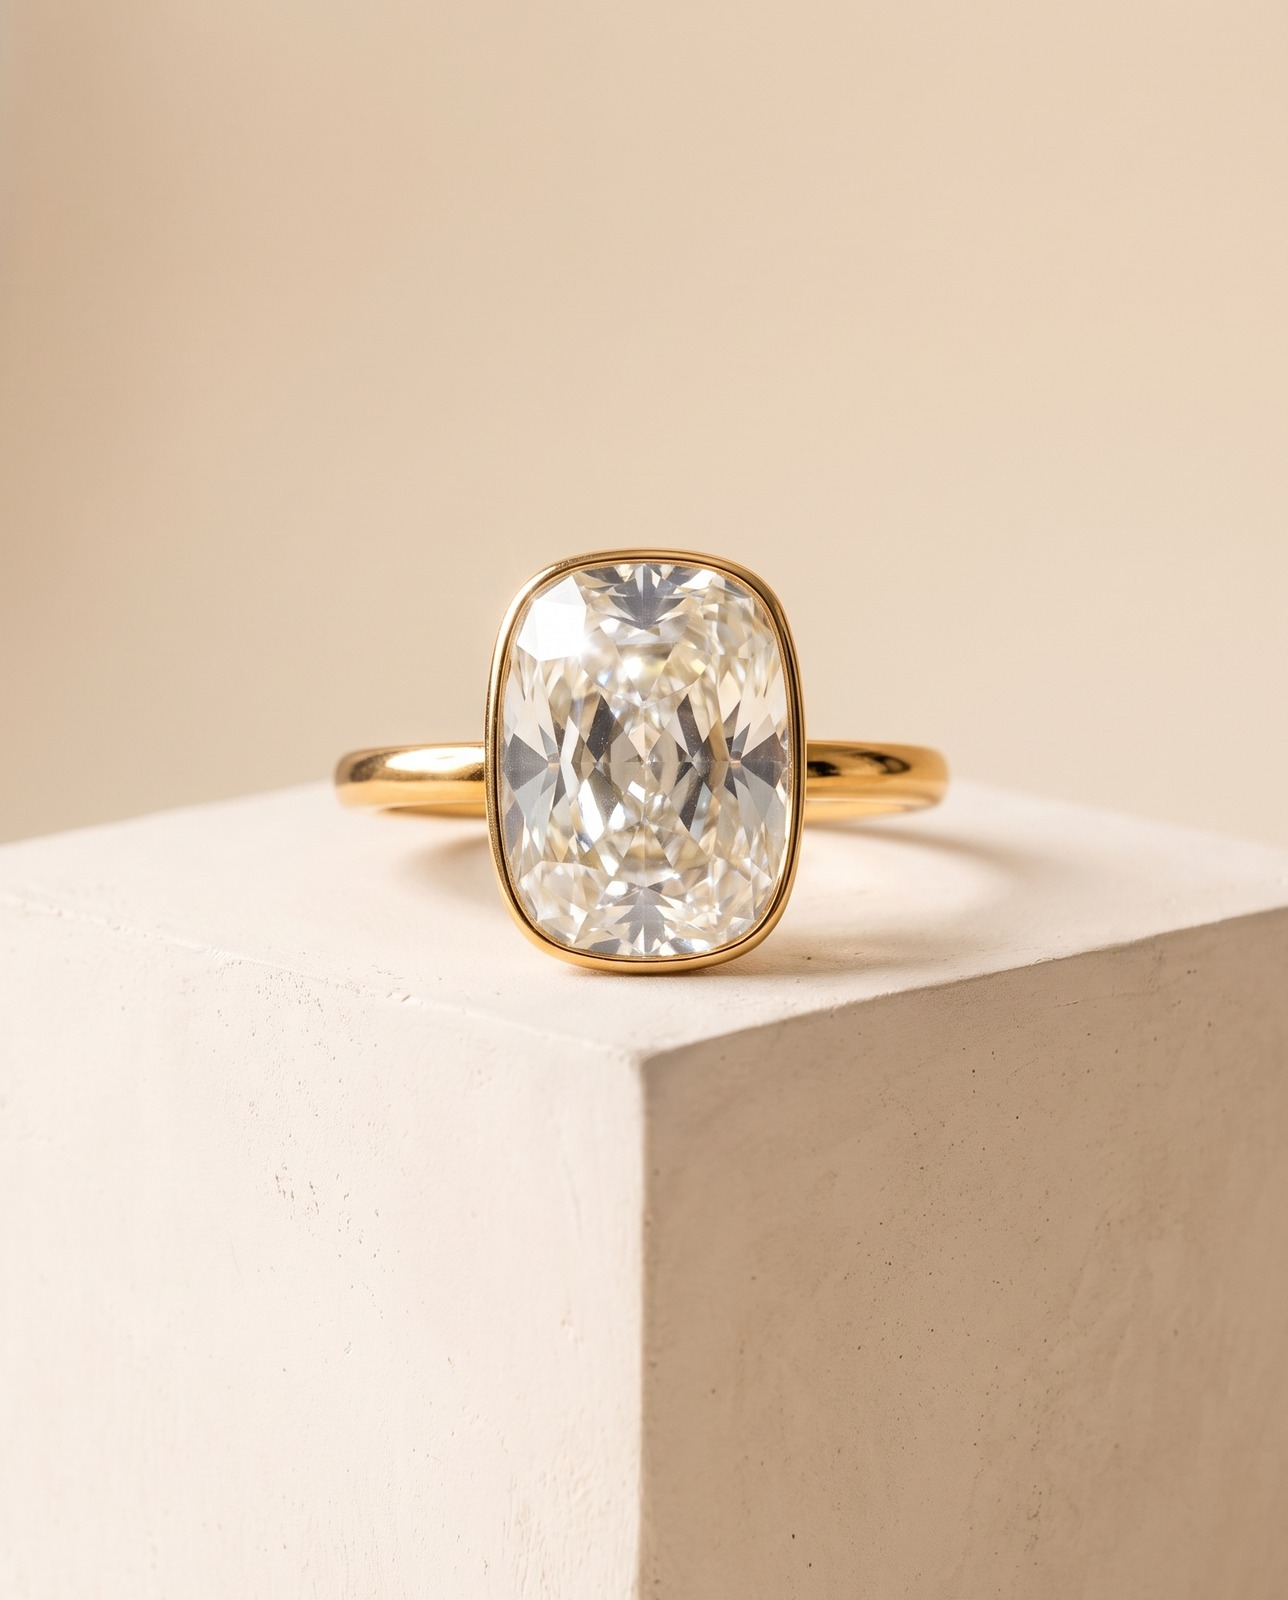
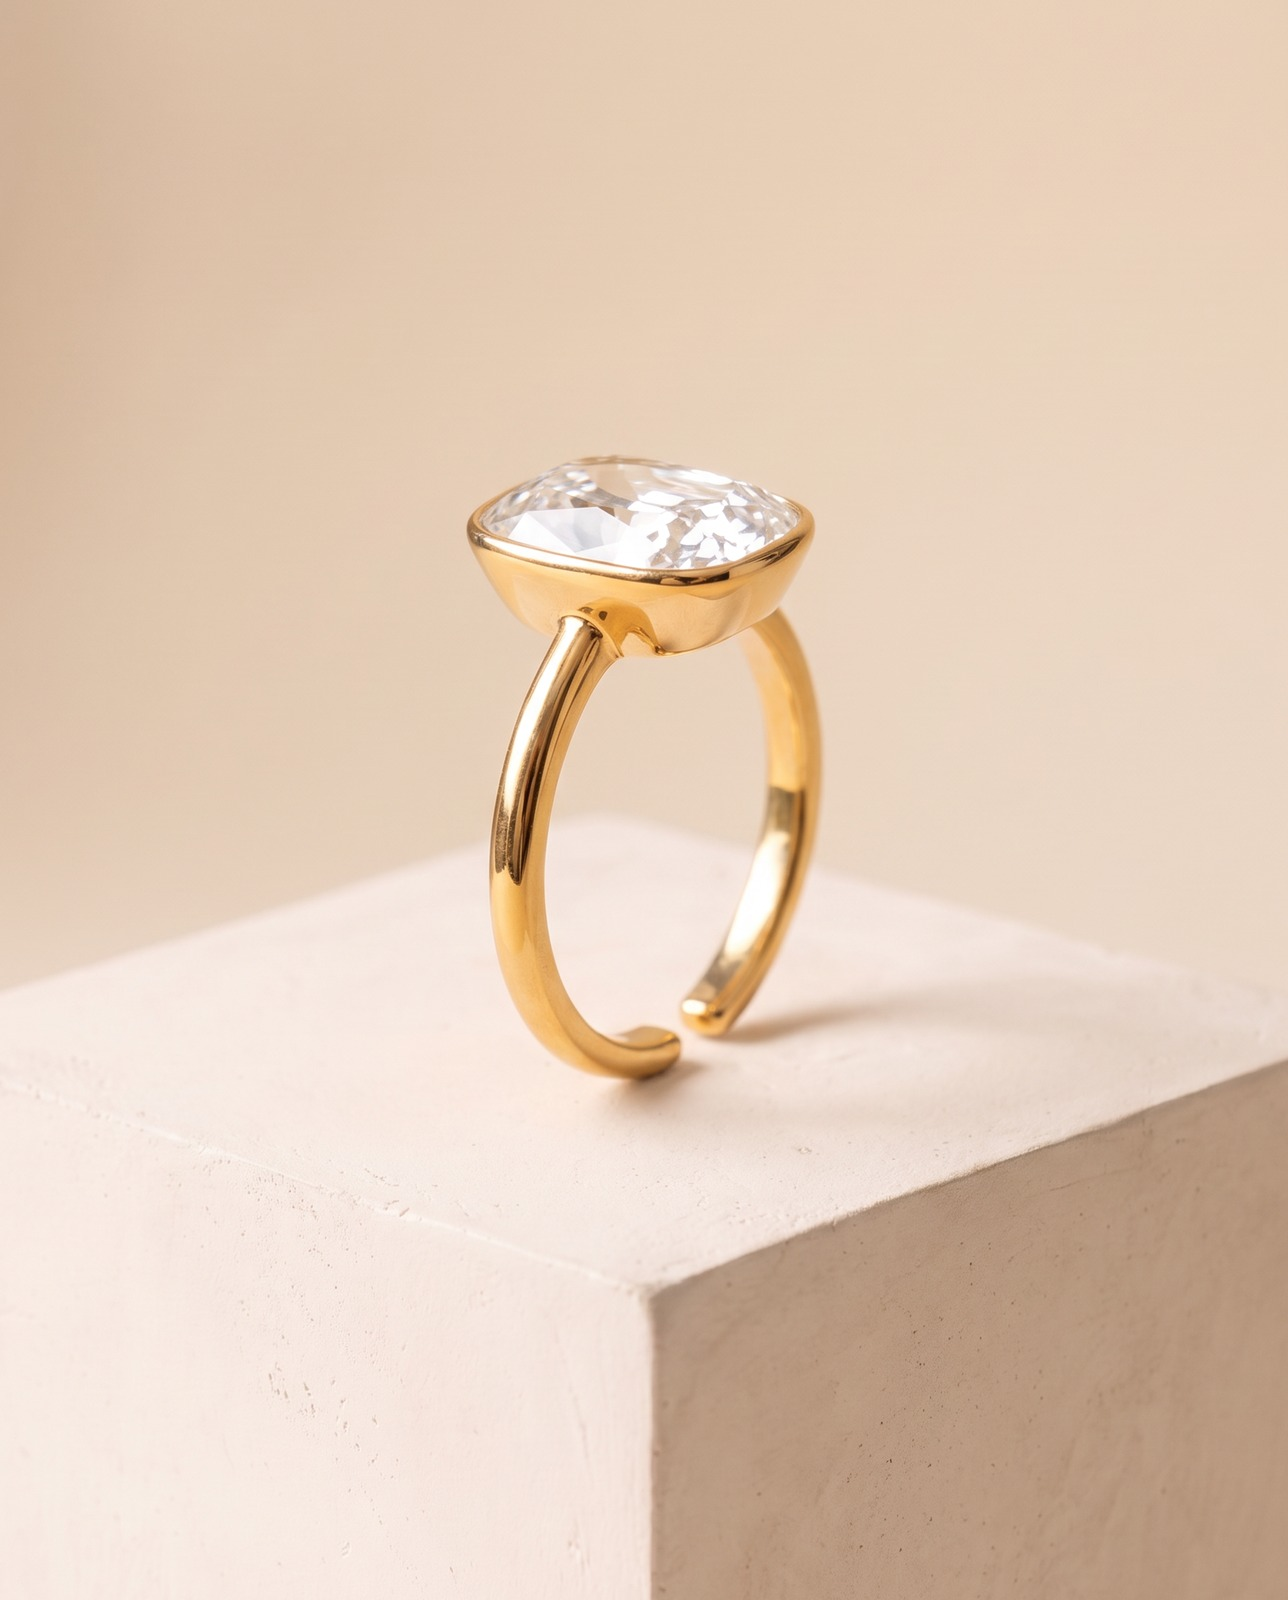
Cushion Solitaire: open-back hero, stone along the finger, 14 x 9 mm, 10 in stock
The owner's photo of the piece (#14, adjustable) measured against the
band and the finger puts the stone at about 14 x 9 mm, not 12 x 8.

- J13_Ho1: an upright hero, open at the back, in the Asscher hero's pose.
- J13_W1o1: the worn frame with the cushion running along the finger at
  its true size; J13_W1 had it near square and turned across.
- Copy, payload, listing record and size-guide card say 14 x 9 mm.
- Stock 5 -> 10 (received). Photos and card replaced in place on
  Shopify; the CDN copies match and the storefront API reads them back.

Claude-Session: https://claude.ai/code/session_015dHqE92KQXn2h19sPkpsQR

Changed region(s): [[0.0, 0.2812, 1.0, 1.0]]

diff --git a/docs/creative/aditya-jewellery/build/export.py b/docs/creative/aditya-jewellery/build/export.py
@@ -11,11 +11,13 @@
 # 26 Oct, the owner: an adjustable ring's photo that shows the back of the band shows it open. openback.py patches the gap
 # into the approved takes: J12_Ho (Asscher hero), J14_Ho and J14_Mo (Pavé Zigzag hero and macro). The Lumière hero was
 # front-on, its back hidden behind the stone, so J15_Ho1 is a new take: the same ring upright in J12_Ho's pose, open at the back.
+# Cushion Solitaire, 26 Oct (the owner's photo, IMG_7075): J13_Ho1 is an upright hero open at the back, and J13_W1o1 the worn
+# frame with the stone running along the finger at its measured size (about 14 x 9 mm), where J13_W1 had it near square.
 import json, os, sys
 from PIL import Image
 H = os.path.dirname(os.path.abspath(__file__)); OUT = os.path.join(H, "../exports")
 SRC = {"J09_H": "J09_H2", "J09_D": "J09_H", "J05_H": "J05_Hf", "J06_H": "J06_He", "J06_W1": "J06_W1e2",
-       "J14_H": "J14_Ho", "J14_W1": "J14_W1z", "J14_M": "J14_Mo", "J12_H": "J12_Ho", "J15_H": "J15_Ho1", "J16_H": "J16_Hg1", "J16_W1": "J16_W1r2",
+       "J14_H": "J14_Ho", "J14_W1": "J14_W1z", "J14_M": "J14_Mo", "J12_H": "J12_Ho", "J15_H": "J15_Ho1", "J13_H": "J13_Ho1", "J13_W1": "J13_W1o1", "J16_H": "J16_Hg1", "J16_W1": "J16_W1r2",
        "J17_H": "J17_Hs", "J17_W1": "J17_W1h2", "J01_W1": "J01_W1p", "J02_W1": "J02_W1c", "J03_W1": "J03_W1p",
        "J05_W1": "J05_W1p", "J07_W1": "J07_W1p", "J08_W1": "J08_W1p", "J11_W1": "J11_W1qp",
        "J10_H": "J10_Hb", "J10_W1": "J10_W2c", "J10_M": "J10_Mc"}

diff --git a/docs/creative/aditya-jewellery/README.md b/docs/creative/aditya-jewellery/README.md
@@ -16,7 +16,7 @@ Sixteen photos Aditya sent after the bracelets (phase 1, [`../aditya-bracelets`]
 | ADT18 | J10 | Watch Link Bangle | Bracelet | ₹300 | ₹1050 | 5 | Draft | Watch Link (new) | [open](https://admin.shopify.com/store/nc5eti-gp/products/10353628479650) |
 | ADT19 | J11 | Molten Wave Ear Cuff | Earrings | ₹140 | ₹490 | 4 | Draft | Molten | [open](https://admin.shopify.com/store/nc5eti-gp/products/10353628512418) |
 | ADT20 | J12 | Asscher Solitaire Ring | Ring | ₹200 | ₹700 | 3 | **Active** | — | [open](https://admin.shopify.com/store/nc5eti-gp/products/10353628545186) |
-| ADT21 | J13 | Cushion Solitaire Ring | Ring | ₹210 | ₹735 | 5 | Draft | — | [open](https://admin.shopify.com/store/nc5eti-gp/products/10353628577954) |
+| ADT21 | J13 | Cushion Solitaire Ring | Ring | ₹210 | ₹735 | 10 | **Active** | — | [open](https://admin.shopify.com/store/nc5eti-gp/products/10353628577954) |
 | ADT22 | J14 | Pavé Zigzag Ring | Ring | ₹180 | ₹630 | 4 | **Active** | — | [open](https://admin.shopify.com/store/nc5eti-gp/products/10353729405090) |
 | ADT23 | J15 | Lumière Oval Solitaire Ring | Ring | ₹180 | ₹699 | 3 | **Active** | Lumière | [open](https://admin.shopify.com/store/nc5eti-gp/products/10353628610722) |
 | ADT24 | J16 | Prism Pear Drop Necklace | Necklace | — | — | 5 | Draft | Prism | [open](https://admin.shopify.com/store/nc5eti-gp/products/10353729437858) |
@@ -126,6 +126,27 @@ The four Aditya rings were shot with a closed band.
 - **Shopify**: the four exports replaced the photos in place (same media ids and order, `?v=1793017396`). The alts now say the
   band is open at the back. All four read back from the CDN within 0.8 levels of the exports.
 - **Higgsfield**: 4 generations at 2 credits, 8 credits; 5.32 left.
+
+### 26 Oct: Cushion Solitaire redone from the owner's photo
+
+The owner sent Aditya's photo of the piece (IMG_7075: "#14, ₹210, Adjustable"), asked for the open back, 4 images, a size check
+against the finger, and 5 more in stock.
+
+- **Size.** The ring lies on the fingers with the band seen edge-on. Its outside width is about 20 mm (an adjustable ring is
+  about 17 mm inside), and against it the stone in its rim measures about 14.5 × 9.5 mm. The finger width gives about
+  13 × 8.5 mm. The copy said about 12 × 8 mm; it now says about 14 × 9 mm, in the description, `shopify/listing.json`, the
+  payload and the size-guide card ("14 × 9 mm stone", redrawn by `build/sizeguide.py`, replaced in place at `?v=1793018859`).
+- **Hero.** `J13_Ho1`: the ring upright in the Asscher hero's pose, open at the back. The old hero faced the stone straight on
+  and hid the back.
+- **Worn.** `J13_W1o1`: the same model and frame as `J13_W1`, which had the cushion near square and turned across the finger.
+  The stone now runs along the finger, knuckle to tip, as on the real ring. With its rim it measures about 13 × 10 mm against
+  the band's 2 mm.
+- **Kept.** The macro (the stone faces the camera and hides the back) and the size-guide card, so the listing still has 4
+  images: hero, worn, macro and card.
+- **Stock.** 5 → 10, adjusted as "received" at Forest Colony Parijat Nagar.
+- **Shopify.** Both photos and the card were replaced in place (same ids and order), and the alts were updated. The CDN copies
+  match the exports, and the storefront API reads 14mm by 9mm, US 5 to 9, in stock.
+- **Higgsfield.** 2 generations, 4 credits; 1.32 left.
 
 ## Shopify
 
